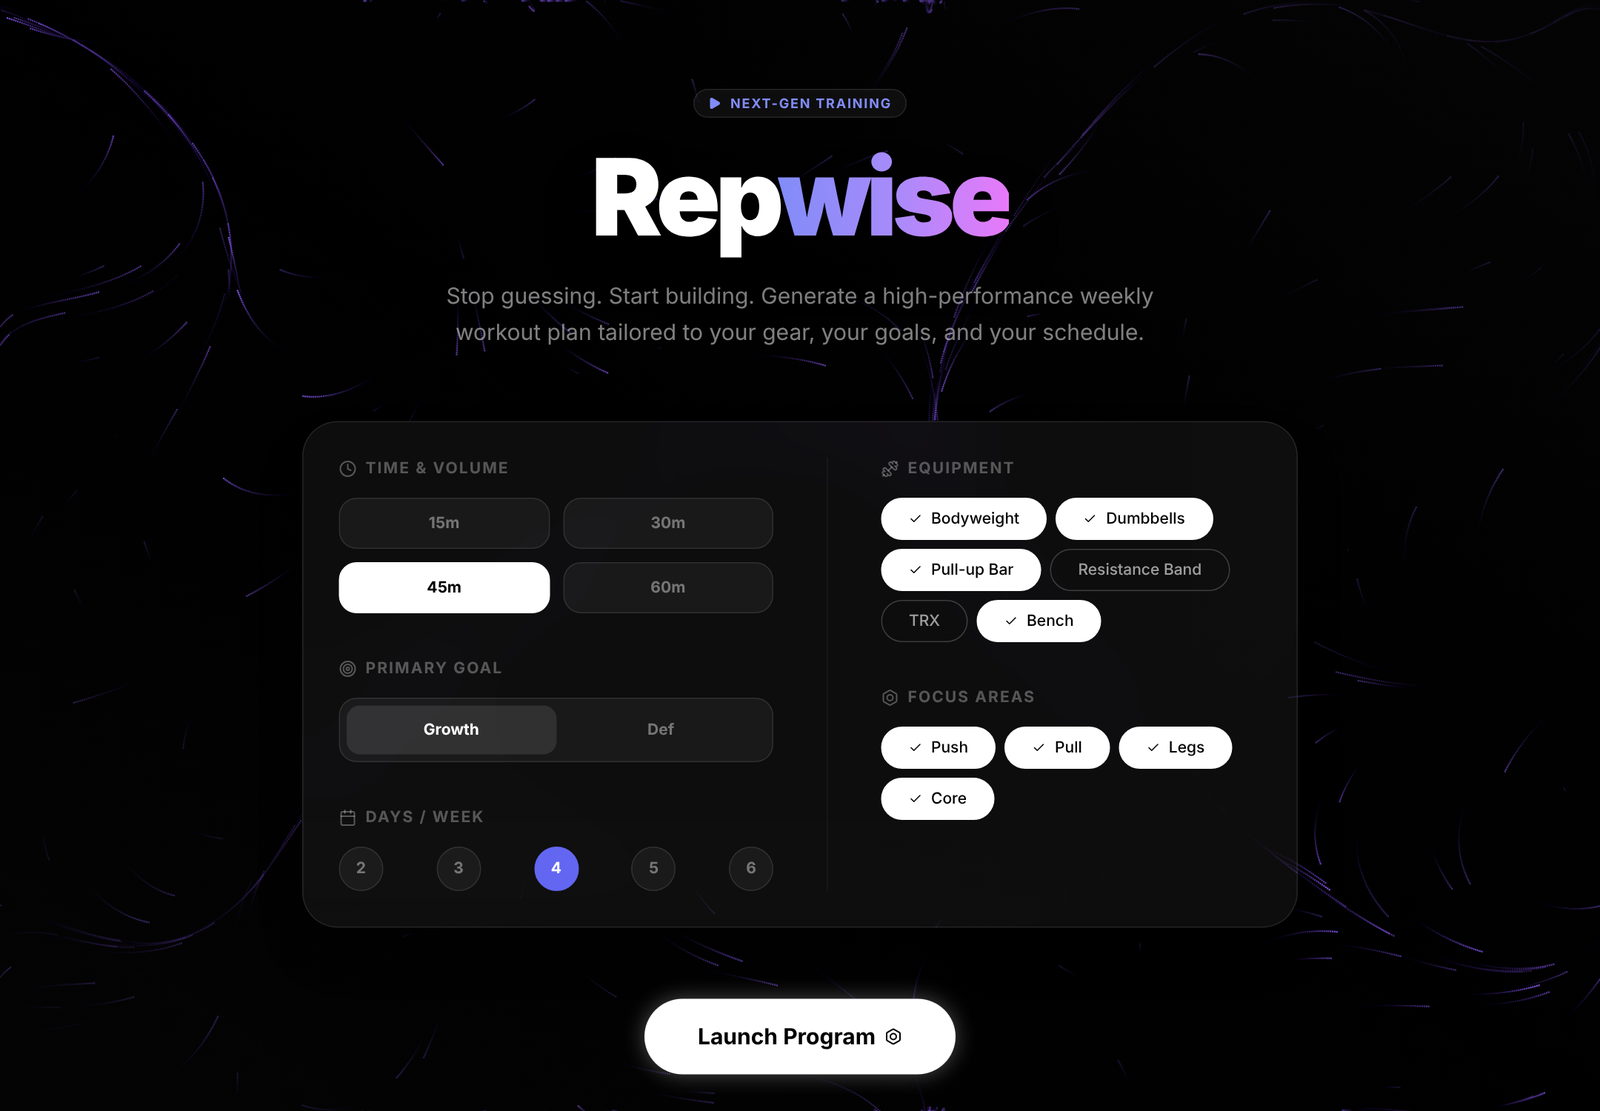
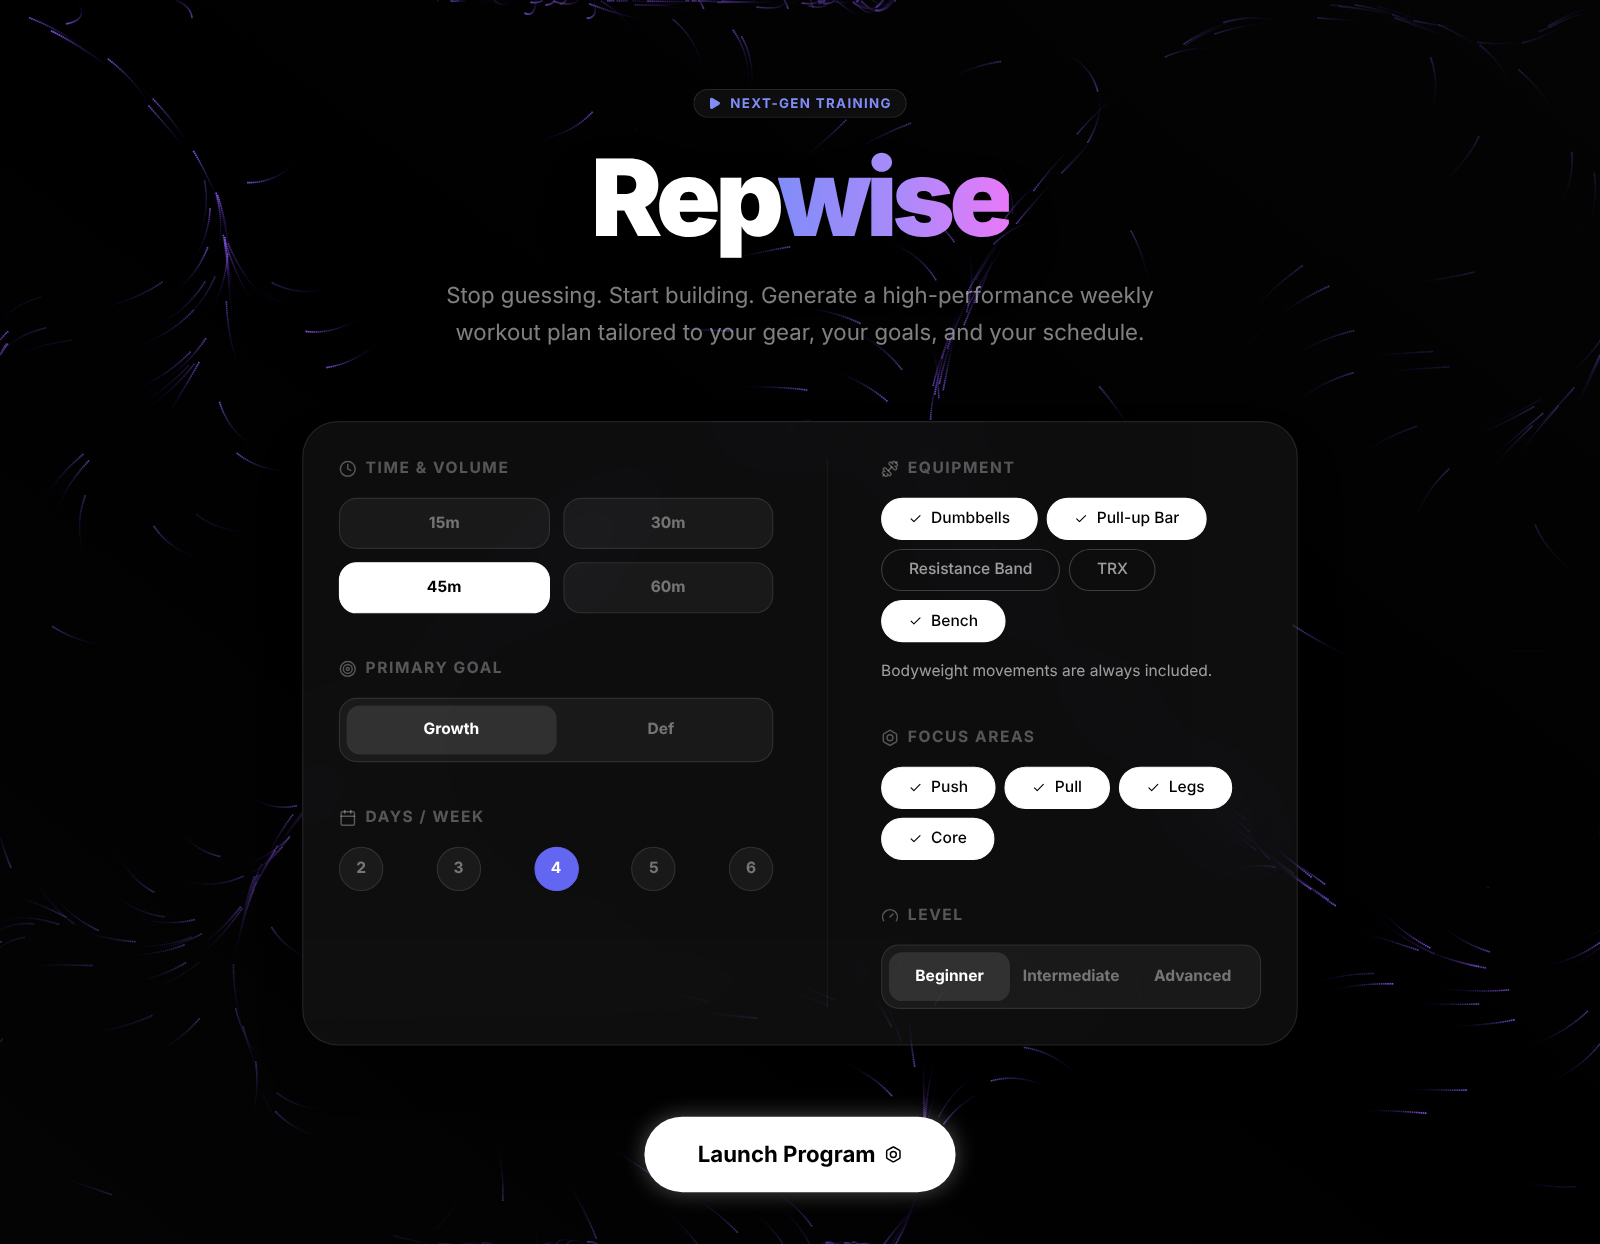
test(planner): sweep every setting the form can send
The old combination test tried 4 of 64 gear sets and one goal with
limits loose enough to pass short days, missing gear and holds in reps.
It is replaced by a sweep of the whole form: 4 lengths, 2 goals,
3 levels, 5 day counts, 32 gear sets and 15 focus sets, 57,600 plans,
each built from a seeded random source.

Every plan is checked for: gear the user selected, holds prescribed and
worded in seconds, nothing above the chosen level unless nothing easier
exists, a session inside the time picked, a reported length that equals
the one on screen, a short flag exactly when another exercise would
still fit, and fresh movements before any repeat. A second sweep runs
on a thinner catalog so the level fallback is exercised too. Breaking
each fix on purpose makes the sweep fail.

Turns on noUncheckedIndexedAccess. The planner's index lookups now go
through a guard that throws, so a random source that returns 1 raises
an error instead of leaving holes in the plan.

Retakes the three README screenshots, which still showed the Bodyweight
pill and the old sets shorthand.

Audit findings: RW-QA-21
Judgment call: the browser test and the jsx-a11y lint plugin from the audit's fix are not added here. The plugin supports ESLint 9 at most and its rules target the hand-built dialog, and both the lint upgrade and the dialog rewrite are planned in other packages.

diff --git a/tests/planner.test.ts b/tests/planner.test.ts
@@ -29,6 +29,12 @@ function seeded(seed: number) {
   return () => ((seed = (seed * 1664525 + 1013904223) % 4294967296) / 4294967296);
 }
 
+function dayOf(plan: DayPlan[], index: number): DayPlan {
+  const day = plan[index];
+  assert.ok(day, `the plan has no day ${index + 1}`);
+  return day;
+}
+
 test('every focus area has a bodyweight exercise, so no day can be empty', () => {
   for (const muscle of FOCUS_AREAS) {
     assert.ok(exercisesData.some(ex => ex.category === muscle && ex.equipment.length === 0), muscle);
@@ -58,29 +64,129 @@ test('exercise names are unique', () => {
   assert.equal(new Set(names).size, names.length);
 });
 
-test('all input combinations give full, valid plans', () => {
+// Every setting the form can send: 4 lengths x 2 goals x 3 levels x 5 day counts x 32 gear sets x 15 focus sets.
+function* everyFormInput(): Generator<PlanOptions> {
+  const subsets = <T>(items: readonly T[]) =>
+    Array.from({ length: 1 << items.length }, (_, mask) => items.filter((_, i) => mask & (1 << i)));
   for (const time of SESSION_LENGTHS)
-    for (const daysPerWeek of DAY_COUNTS)
-      for (let mask = 1; mask < 16; mask++)
-        for (const equipment of [[], ['Dumbbells'], EQUIPMENT] as const) {
-          const focusMuscles = FOCUS_AREAS.filter((_, i) => mask & (1 << i));
-          const plan = buildWeeklyPlan(exercisesData, { ...base, time, daysPerWeek, equipment, focusMuscles }, seeded(mask));
-          assert.equal(plan.length, daysPerWeek);
-          const owned = new Set<string>(equipment);
-          const trained = new Set<string>();
-          for (const day of plan) {
-            assert.ok(day.exercises.length >= 1, `${day.day} is empty`);
-            assert.ok(day.minutes <= time, `${day.day} exceeds the time budget`);
-            const names = day.exercises.map(ex => ex.name);
-            assert.equal(new Set(names).size, names.length, `${day.day} repeats an exercise`);
-            for (const ex of day.exercises) {
-              for (const item of ex.equipment) assert.ok(owned.has(item), `${ex.name} needs ${item}`);
-              assert.ok(focusMuscles.includes(ex.category));
-              trained.add(ex.category);
-            }
-          }
-          assert.deepEqual([...trained].sort(), [...focusMuscles].sort());
-        }
+    for (const goal of GOALS)
+      for (const level of LEVELS)
+        for (const daysPerWeek of DAY_COUNTS)
+          for (const equipment of subsets(EQUIPMENT))
+            for (const focusMuscles of subsets(FOCUS_AREAS))
+              if (focusMuscles.length > 0) yield { time, goal, level, daysPerWeek, equipment, focusMuscles };
+}
+
+// What each goal prescribes, written out again so a change to the planner's table has to be repeated here on purpose.
+const PRESCRIBED = {
+  growth: { sets: 3, reps: [8, 12], seconds: [20, 30], rest: 90 },
+  definition: { sets: 4, reps: [15, 20], seconds: [30, 45], rest: 45 },
+} as const;
+const WEEK = ['Monday', 'Tuesday', 'Wednesday', 'Thursday', 'Friday', 'Saturday', 'Sunday'];
+
+// Checks one plan against everything the planner promises. Returns how many movements sit above the
+// chosen level because nothing easier existed for that area and gear.
+function checkPlan(catalog: readonly Exercise[], options: PlanOptions, plan: DayPlan[]): number {
+  const fail = (what: string) => assert.fail(`${what} with ${JSON.stringify(options)}`);
+  const { time, goal, level, equipment, focusMuscles } = options;
+  const owned = new Set<string>(equipment);
+  const rank = (ex: Exercise) => LEVELS.indexOf(ex.difficulty);
+  const want = PRESCRIBED[goal];
+  const oneMore = want.sets * (Math.max(want.reps[1] * 3, want.seconds[1]) + want.rest);
+
+  // The movements each area can draw on, worked out here without the planner's help.
+  const pools = new Map<string, Exercise[]>(focusMuscles.map(area => {
+    const usable = catalog.filter(ex => ex.category === area && ex.equipment.every(item => owned.has(item)));
+    const easyEnough = usable.filter(ex => rank(ex) <= LEVELS.indexOf(level));
+    const easiest = Math.min(...usable.map(rank));
+    return [area, easyEnough.length > 0 ? easyEnough : usable.filter(ex => rank(ex) === easiest)];
+  }));
+
+  if (plan.length !== options.daysPerWeek) fail(`${plan.length} days planned`);
+  const order = plan.map(day => WEEK.indexOf(day.day));
+  if (order.some((position, i) => position < 0 || position <= (order[i - 1] ?? -1))) fail('days out of order');
+
+  let aboveLevel = 0;
+  const usedByArea = new Map<string, string[]>();
+  for (const day of plan) {
+    const names = day.exercises.map(ex => ex.name);
+    if (names.length === 0) fail(`${day.day} is empty`);
+    if (new Set(names).size !== names.length) fail(`${day.day} repeats an exercise`);
+    const labelled = day.focus.replace(/ Day$/, '').split(' & ');
+
+    for (const ex of day.exercises) {
+      const pool = pools.get(ex.category);
+      if (!pool || !labelled.includes(ex.category)) fail(`${ex.name} is outside the focus of ${day.day}`);
+      if (!ex.equipment.every(item => owned.has(item))) fail(`${ex.name} needs gear that was not selected`);
+      if (!pool?.some(candidate => candidate.name === ex.name && candidate.unit === ex.unit)) {
+        fail(`${ex.name} (${ex.difficulty}) is not among the ${ex.category} movements for ${level}`);
+      }
+      if (rank(ex) > LEVELS.indexOf(level)) aboveLevel++;
+
+      const range = ex.unit === 'seconds' ? want.seconds : want.reps;
+      if (ex.perSet[0] !== range[0] || ex.perSet[1] !== range[1] || ex.rest !== want.rest) {
+        fail(`${ex.name} is counted in ${ex.unit} but prescribed ${ex.perSet.join(' to ')}`);
+      }
+      if (ex.sets < want.sets || ex.sets > 5) fail(`${ex.name} has ${ex.sets} sets`);
+      if (!volumeText(ex).endsWith(` ${ex.unit}`)) fail(`${ex.name} reads "${volumeText(ex)}"`);
+      usedByArea.set(ex.category, [...(usedByArea.get(ex.category) ?? []), ex.name]);
+    }
+
+    const seconds = estimatedSeconds(day);
+    const spare = time * 60 - seconds;
+    if (spare < 0) fail(`${day.day} runs past ${time} minutes`);
+    if (day.minutes !== Math.round(seconds / 60)) fail(`${day.day} reports ${day.minutes} minutes`);
+    if (day.short !== spare >= oneMore) fail(`${day.day} has ${spare} seconds spare but short is ${day.short}`);
+    const shown = sessionLengthText(day, time);
+    if (!shown.startsWith(`About ${day.minutes} minutes`)) fail(`${day.day} shows "${shown}"`);
+    if (shown.includes(`shorter than the ${time} you picked`) !== day.short) fail(`${day.day} shows "${shown}"`);
+    // A day may only be short because its areas have nothing left to give.
+    const usedAll = (area: string) => day.exercises.filter(ex => ex.category === area).length === pools.get(area)?.length;
+    if (day.short && !labelled.every(usedAll)) fail(`${day.day} is short but did not use every movement it could`);
+  }
+
+  for (const area of focusMuscles) {
+    const used = usedByArea.get(area) ?? [];
+    const size = pools.get(area)?.length ?? 0;
+    if (used.length === 0) fail(`${area} is never trained`);
+    // Fresh movements before any repeat: no window as long as the pool holds the same movement twice.
+    for (let i = 0; i + size <= used.length; i++) {
+      if (new Set(used.slice(i, i + size)).size !== size) fail(`${area} repeats a movement before the others had a turn`);
+    }
+  }
+  return aboveLevel;
+}
+
+test('every setting the form can send gives a plan that keeps its promises', t => {
+  let combinations = 0;
+  let days = 0;
+  let shortDays = 0;
+  const seen = new Set<string>();
+  for (const options of everyFormInput()) {
+    combinations++;
+    const plan = buildWeeklyPlan(exercisesData, options, seeded(combinations));
+    assert.equal(checkPlan(exercisesData, options, plan), 0, `a movement is above ${options.level} with ${JSON.stringify(options)}`);
+    assert.deepEqual(buildWeeklyPlan(exercisesData, options, seeded(combinations)), plan, 'the same seed should give the same plan');
+    for (const day of plan) {
+      days++;
+      if (day.short) shortDays++;
+      for (const ex of day.exercises) seen.add(ex.name);
+    }
+  }
+  assert.deepEqual([...seen].sort(), exercisesData.map(ex => ex.name).sort(), 'every catalog entry should appear somewhere');
+  t.diagnostic(`${combinations} combinations, ${days} days, ${shortDays} marked short, none short without saying so`);
+});
+
+test('the same promises hold when an area has nothing easy enough', () => {
+  // Without these three, beginner core work and bodyweight beginner push work have to fall back to harder movements.
+  const sparse = exercisesData.filter(ex => !['Plank', 'Hollow Holds', 'Push-up'].includes(ex.name));
+  let combinations = 0;
+  let aboveLevel = 0;
+  for (const options of everyFormInput()) {
+    combinations++;
+    aboveLevel += checkPlan(sparse, options, buildWeeklyPlan(sparse, options, seeded(combinations)));
+  }
+  assert.ok(aboveLevel > 0, 'the fallback should have been needed');
 });
 
 test('goal sets the prescription', () => {
@@ -131,7 +237,7 @@ test('a plan only uses movements at or below the chosen level', () => {
 test('when nothing is easy enough, the easiest movements stand in', () => {
   // A catalog whose only core movements are above Beginner.
   const hardCore = exercisesData.filter(ex => ex.category !== 'Core' || ex.difficulty !== 'Beginner');
-  hardCore.push({ ...hardCore[0], name: 'Dragon Flag', category: 'Core', equipment: [], difficulty: 'Advanced' });
+  hardCore.push({ name: 'Dragon Flag', category: 'Core', equipment: [], primary_muscle: 'Abs', difficulty: 'Advanced', unit: 'reps', description: '' });
   const plan = buildWeeklyPlan(hardCore, { ...base, time: 60, focusMuscles: ['Core'] }, seeded(1));
   const names = new Set(plan.flatMap(day => day.exercises.map(ex => ex.name)));
   assert.deepEqual([...names], ['L-Sit']);
@@ -147,7 +253,7 @@ test('a session never runs past the time picked, and reports its real length', (
         }
   // Growth takes about 6 minutes an exercise and definition about 7.
   const counts = (goal: PlanOptions['goal']) =>
-    SESSION_LENGTHS.map(time => buildWeeklyPlan(exercisesData, { ...wellEquipped, goal, time, focusMuscles: ['Pull'] })[0].exercises.length);
+    SESSION_LENGTHS.map(time => dayOf(buildWeeklyPlan(exercisesData, { ...wellEquipped, goal, time, focusMuscles: ['Pull'] }), 0).exercises.length);
   assert.deepEqual(counts('growth'), [2, 4, 7, 9]);
   assert.deepEqual(counts('definition'), [2, 4, 6, 8]);
 });
@@ -166,7 +272,7 @@ test('a day that cannot fill the time gets extra sets and says it is short', () 
         for (const ex of day.exercises) assert.ok(ex.sets <= 5, `${ex.name} has ${ex.sets} sets`);
       }
 
-  const [, pull] = buildWeeklyPlan(exercisesData, { ...base, time: 60 }, seeded(1));
+  const pull = dayOf(buildWeeklyPlan(exercisesData, { ...base, time: 60 }, seeded(1)), 1);
   assert.equal(pull.focus, 'Pull Day');
   assert.equal(pull.short, true);
   assert.ok(pull.exercises.every(ex => ex.sets === 5), 'a short day is filled with sets up to the limit');
@@ -177,7 +283,7 @@ test('a day that cannot fill the time gets extra sets and says it is short', () 
   );
 
   // A full day keeps the goal's own sets and shows only its length.
-  const [full] = buildWeeklyPlan(exercisesData, { ...wellEquipped, time: 30 }, seeded(1));
+  const full = dayOf(buildWeeklyPlan(exercisesData, { ...wellEquipped, time: 30 }, seeded(1)), 0);
   assert.equal(full.short, false);
   assert.ok(full.exercises.every(ex => ex.sets === 3));
   assert.equal(sessionLengthText(full, 30), `About ${full.minutes} minutes`);
@@ -186,13 +292,13 @@ test('a day that cannot fill the time gets extra sets and says it is short', () 
   const at45 = buildWeeklyPlan(exercisesData, { ...base, time: 45 }, seeded(1));
   const at60 = buildWeeklyPlan(exercisesData, { ...base, time: 60 }, seeded(1));
   at60.forEach((day, i) => {
-    if (JSON.stringify(day.exercises) === JSON.stringify(at45[i].exercises)) assert.equal(day.short, true, day.day);
+    if (JSON.stringify(day.exercises) === JSON.stringify(dayOf(at45, i).exercises)) assert.equal(day.short, true, day.day);
   });
 });
 
 test('an area left with spare slots hands them to the other area of the day', () => {
   // Beginner bodyweight has one push movement, so legs should take the slots push cannot use.
-  const [monday] = buildWeeklyPlan(exercisesData, { ...base, daysPerWeek: 2 }, seeded(1));
+  const monday = dayOf(buildWeeklyPlan(exercisesData, { ...base, daysPerWeek: 2 }, seeded(1)), 0);
   assert.equal(monday.focus, 'Push & Legs Day');
   assert.deepEqual(monday.exercises.map(ex => ex.category), ['Push', 'Legs', 'Legs', 'Legs']);
 });
@@ -223,6 +329,8 @@ test('bad input is rejected with a clear error instead of a broken plan', () => 
   rejects({ time: 5, daysPerWeek: 2 }, /too short/);
   rejects({}, /no Core movements/, exercisesData.filter(ex => ex.category !== 'Core'));
   rejects({}, /no Push movements/, []);
+  // A random source must stay below 1. One that does not is caught instead of leaving holes in the plan.
+  assert.throws(() => buildWeeklyPlan(exercisesData, base, () => 1), RangeError);
 });
 
 test('does not mutate the catalog', () => {

diff --git a/src/lib/planner.ts b/src/lib/planner.ts
@@ -55,11 +55,18 @@ const WEEK_LAYOUTS: Record<DayCount, string[]> = {
   6: ['Monday', 'Tuesday', 'Wednesday', 'Thursday', 'Friday', 'Saturday'],
 };
 
+// For lookups the planner expects to be in range. Fails loudly if one is not, instead of passing undefined along.
+function at<T>(items: readonly T[], index: number): T {
+  const item = items[index];
+  if (item === undefined) throw new RangeError(`nothing at position ${index} of ${items.length}`);
+  return item;
+}
+
 function shuffle<T>(items: readonly T[], random: () => number): T[] {
   const result = [...items];
   for (let i = result.length - 1; i > 0; i--) {
     const j = Math.floor(random() * (i + 1));
-    [result[i], result[j]] = [result[j], result[i]];
+    [result[i], result[j]] = [at(result, j), at(result, i)];
   }
   return result;
 }
@@ -120,7 +127,7 @@ export function buildWeeklyPlan(
   const slots = Math.max(days.length, muscles.length);
   const musclesByDay: FocusArea[][] = days.map(() => []);
   for (let i = 0; i < slots; i++) {
-    musclesByDay[i % days.length].push(muscles[i % muscles.length]);
+    at(musclesByDay, i % days.length).push(at(muscles, i % muscles.length));
   }
 
   const limit = options.time * 60;
@@ -128,7 +135,7 @@ export function buildWeeklyPlan(
   const oneMore = Math.max(exerciseSeconds('reps', prescription.reps), exerciseSeconds('seconds', prescription.seconds));
 
   return days.map((day, dayIndex) => {
-    const areas = musclesByDay[dayIndex].map(muscle => ({
+    const areas = at(musclesByDay, dayIndex).map(muscle => ({
       muscle,
       queue: pools.get(muscle) ?? [],
       picked: [] as PlannedExercise[],

diff --git a/README.md b/README.md
@@ -7,7 +7,7 @@ A weekly home workout planner. Tell it what gear you own, your level, how long y
 
 **[Open the app](https://repwiseapp.vercel.app)**
 
-[![The Repwise setup screen: session length, goal, days per week, equipment and focus areas above a Launch Program button, on a dark animated background](docs/screenshots/configure.png)](https://repwiseapp.vercel.app)
+[![The Repwise setup screen: session length, goal, days per week, equipment, focus areas and level above a Launch Program button, on a dark animated background](docs/screenshots/configure.png)](https://repwiseapp.vercel.app)
 
 It mixes calisthenics and weight work, keeps each session inside your time budget, and spreads training days so rest falls between them. Every day shows how long it should take, and a day that comes out shorter than you asked for says so. Tap any exercise for form notes.
 
@@ -28,11 +28,11 @@ The result is a day-by-day plan drawn from a catalog of 36 movements. Each exerc
 
 | A generated week | Exercise detail |
 | :---: | :---: |
-| <img src="docs/screenshots/plan.png" alt="A four-day plan with Monday push day and Tuesday pull day, each listing exercises with sets, reps and rest" width="520"> | <img src="docs/screenshots/exercise.png" alt="Dumbbell Bench Press detail card with form notes, volume, rest and target muscle" width="340"> |
+| <img src="docs/screenshots/plan.png" alt="A four-day plan with Monday push day and Tuesday pull day. Each day shows its estimated length and each exercise its level, sets, reps and rest" width="520"> | <img src="docs/screenshots/exercise.png" alt="Dumbbell Bench Press detail card with form notes, volume, rest, target muscle and level" width="340"> |
 
 ## How it works
 
-The planner lives in [`src/lib/planner.ts`](src/lib/planner.ts) as one pure function, so the tests can run it with a fixed random source.
+The planner lives in [`src/lib/planner.ts`](src/lib/planner.ts) as one pure function, so the tests can run it with a fixed random source. They build a plan for every combination of settings the form can send, 57,600 in all, and check each one against the rules below.
 
 - **Equipment filter.** Each focus area gets a pool of the movements your gear allows. A movement that needs two things, such as a band and a pull-up bar, is only offered when you own both. Bodyweight work is always in the pool, so every area has something to do even with no equipment.
 - **Spreading the week.** Focus areas rotate across the training days. Every area you chose gets at least one day; if there are more days than areas, the rotation repeats.

diff --git a/docs/PITFALLS.md b/docs/PITFALLS.md
@@ -10,3 +10,4 @@ Read this before changing the catalog, the planner or the tests. Add a row when 
 | A hold such as the plank is prescribed as a number of reps. | One prescription per goal was copied onto every exercise. | Each catalog entry has a `unit`, and the planner keeps a reps prescription and a seconds prescription for each goal. Mark every new hold as `seconds`. |
 | Sessions come out much shorter than the length picked, and 45 and 60 minutes give the same day. | The pool for an area, gear and level is smaller than the session. Beginner bodyweight has one push movement and two each for pull and core. Moving spare time between a day's areas fixes almost none of these days. | The planner adds sets up to a limit, and every day carries its real length and a flag for when it is short, which the plan view shows. Only more catalog entries make those days longer, so check the thin pools before tuning the planner. |
 | A session takes longer than the length picked. | Session size was a flat 5 minutes an exercise, whatever the goal's sets and rest. | The time for an exercise is worked out from its prescription in `exerciseSeconds`. If you change sets, reps, holds or rest, the number of exercises per session follows, and the tests that state the time model in their own words will tell you if the two drift apart. |
+| The tests pass while plans are short, need missing gear or show holds as reps. | The combination test tried 4 of 64 gear sets and one goal, and its limits were loose enough to accept the faults. | `tests/planner.test.ts` now builds a plan for every setting the form can send and checks each promise exactly, using the lists in `src/data/options.ts`, so a new option joins the sweep by itself. A new promise belongs in `checkPlan`. To prove a check works, break the planner on purpose and watch it fail. |
